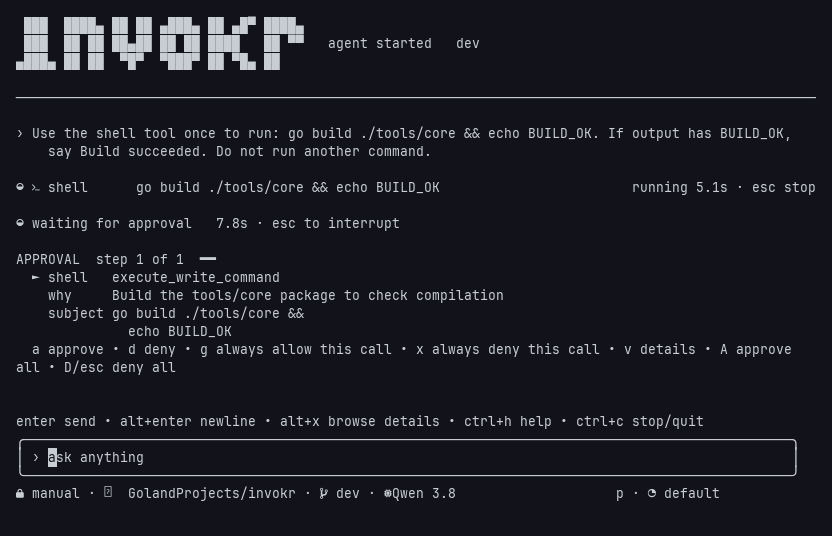
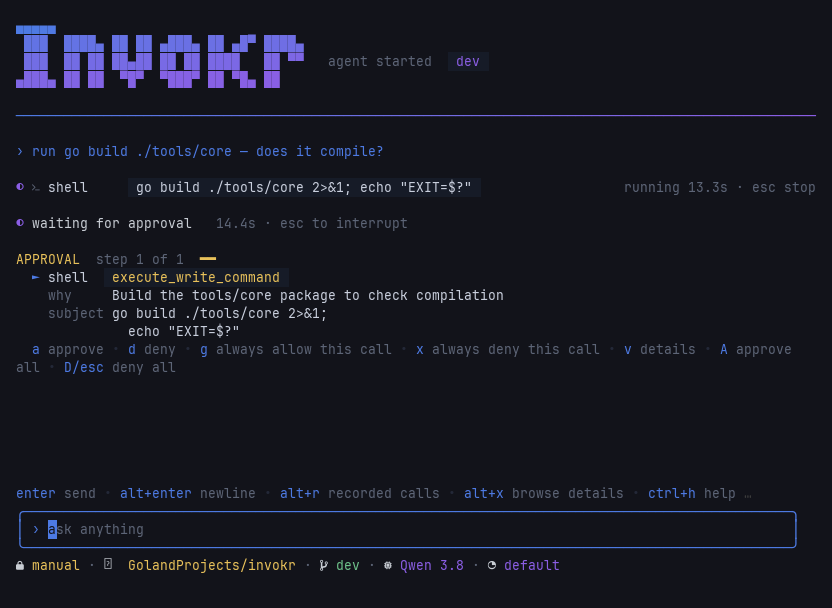
Sync from invokr-pre-release @ 623f57b

diff --git a/docs/assets/record/record.py b/docs/assets/record/record.py
@@ -17,6 +17,7 @@ loose part: they have to cover a model's think time, not a fixed animation.
 
 import fcntl
 import os
+import re
 import pty
 import select
 import struct
@@ -25,17 +26,17 @@ import termios
 import time
 
 import pyte
+from wcwidth import wcwidth
 from PIL import Image, ImageDraw, ImageFont
 
 PROMPT = os.environ.get(
     "PROMPT",
-    "Use the shell tool to run exactly: go build ./tools/core   "
-    "Then tell me if it compiled.",
+    "run go build ./tools/core — does it compile?",
 )
 DISPLAY_MODEL = os.environ.get("DEMO_MODEL_LABEL", "")
 ACTUAL_MODEL = os.environ.get("INVOKR_MODEL", "")
 
-COLS, ROWS = 100, 28
+COLS, ROWS = 100, 32
 FONT_PATH = "/usr/share/fonts/TTF/JetBrainsMonoNerdFontMono-Regular.ttf"
 # JetBrains Mono has no U+25D0 ◐, the running-spinner glyph, and draws it as a
 # .notdef box. Anything monospace that does have it works as a stand-in for the
@@ -141,10 +142,33 @@ def color(name, default):
     return default
 
 
+class Screen(pyte.Screen):
+    """pyte.Screen that widens text-presentation emoji followed by VS16.
+
+    A terminal draws U+1F5DC U+FE0F two columns wide; pyte counts one, so every
+    later cell on the row lands a column early and the text overwrites itself.
+    """
+
+    def draw(self, data):
+        super().draw(re.sub(".\ufe0f", lambda m: m[0][0] + (" " if wcwidth(m[0][0]) == 1 else ""), data))
+
+    def scroll_down(self, count=None):
+        """CSI T, which pyte lacks: a reverse index at the top margin scrolls the region down."""
+        y = self.cursor.y
+        self.cursor.y = self.margins.top if self.margins else 0
+        for _ in range(count or 1):
+            self.reverse_index()
+        self.cursor.y = y
+
+
+class Stream(pyte.ByteStream):
+    csi = {**pyte.ByteStream.csi, "T": "scroll_down"}
+
+
 def run(command):
     """Drive command in a pty, returning screen snapshots as (t, buffer)."""
-    screen = pyte.Screen(COLS, ROWS)
-    stream = pyte.ByteStream(screen)
+    screen = Screen(COLS, ROWS)
+    stream = Stream(screen)
     pid, fd = pty.fork()
     if pid == 0:
         os.environ.update(TERM="xterm-256color", COLORTERM="truecolor", LINES=str(ROWS), COLUMNS=str(COLS))
@@ -190,10 +214,14 @@ def snapshot(screen):
     rows = [[screen.buffer[y][x] for x in range(COLS)] for y in range(ROWS)]
     if DISPLAY_MODEL and ACTUAL_MODEL:
         for row in rows:
-            start = "".join(char.data for char in row).find(ACTUAL_MODEL)
+            # A wide glyph's second cell has empty data; count it so the index is a column.
+            start = "".join(char.data or " " for char in row).find(ACTUAL_MODEL)
             if start >= 0:
-                for offset, data in enumerate(DISPLAY_MODEL.ljust(len(ACTUAL_MODEL))[:len(ACTUAL_MODEL)]):
-                    row[start + offset] = row[start + offset]._replace(data=data)
+                # Swap the name in and shift the rest of the bar left, padding the right edge.
+                label = DISPLAY_MODEL[:len(ACTUAL_MODEL)]
+                row[start:] = ([row[start + i]._replace(data=c) for i, c in enumerate(label)]
+                               + row[start + len(ACTUAL_MODEL):]
+                               + [row[-1]._replace(data=" ")] * (len(ACTUAL_MODEL) - len(label)))
     return rows
 
 
@@ -287,7 +315,7 @@ def main():
         sys.exit("no frames captured")
 
     # Skip long unchanged waits without accelerating typed characters.
-    durations = [min(2000, int(1000 * (b - a))) for a, b in zip(times, times[1:])] + [1200]
+    durations = [min(2000, int(1000 * (b - a))) for a, b in zip(times, times[1:])] + [4000]  # hold the /context overlay long enough to read
     paletted = quantize(images)
     paletted[0].save(gif_path, save_all=True, append_images=paletted[1:],
                      duration=durations, loop=0, optimize=True, disposal=1)
